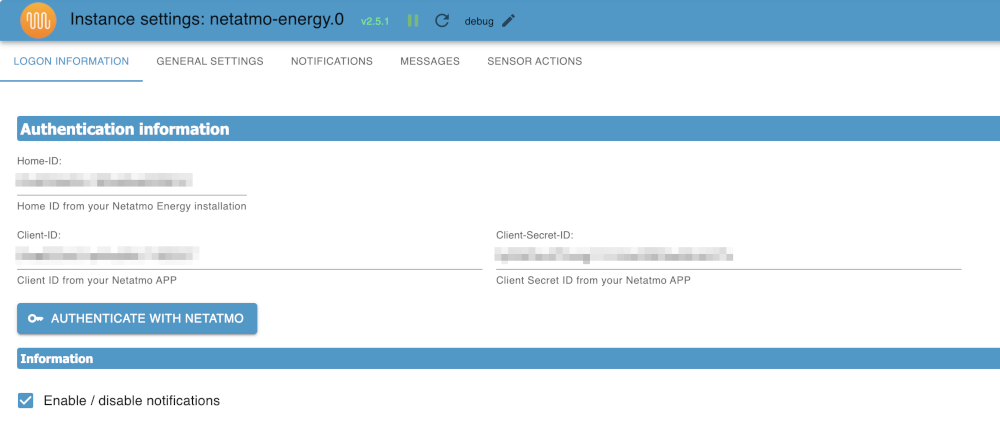
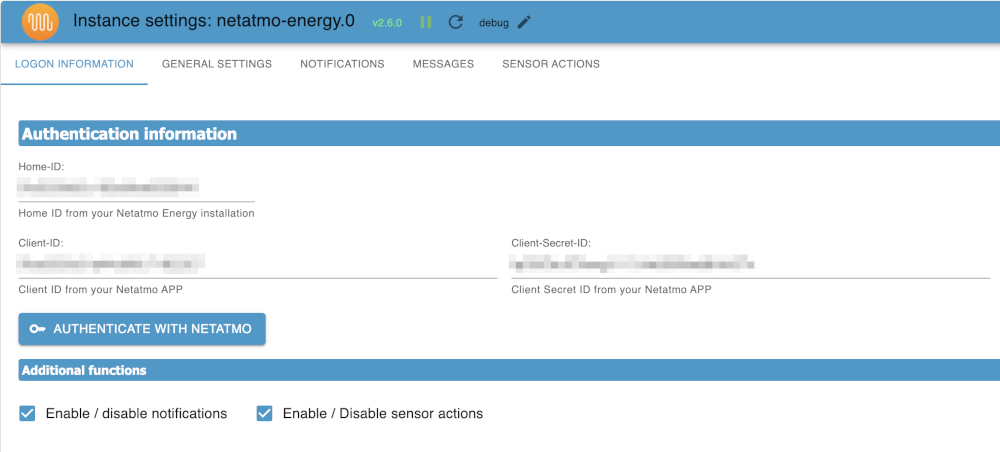
Enable / Disable sensor actions

diff --git a/admin/words.js b/admin/words.js
@@ -260,6 +260,8 @@ const _systemDictionary = {
 	"Bridge": { 																	"en": "Bridge", 																	"de": "Brücke", 																				"ru": "Мост", 																				"pt": "Ponte", 																					"nl": "Bridge", 																		"fr": "Bridge", 																								"it": "Ponte", 																							"es": "Puente", 																					"pl": "Most", 																								"uk": "Міста", 																		"zh-cn": "B. 桥梁" },
 	"More details": { 																"en": "More details", 																"de": "Mehr Details", 																			"ru": "Подробнее", 																			"pt": "Mais detalhes", 																			"nl": "Meer details", 																	"fr": "Plus de détails", 																						"it": "Maggiori dettagli", 																				"es": "Más detalles", 																				"pl": "Szczegóły", 																							"uk": "Детальніше", 																"zh-cn": "详情" },
 	"Set home mode": { 																"en": "Set home mode", 																"de": "Home-Modus einstellen", 																	"ru": "Установите домашний режим", 															"pt": "Definir modo de casa", 																	"nl": "Zet thuis modus", 																"fr": "Mode home", 																								"it": "Impostare la modalità home", 																	"es": "Modo de inicio", 																			"pl": "Tryb domowy", 																						"uk": "Налаштування домашнього режиму", 											"zh-cn": "建 议" },
+	"Enable / Disable sensor actions": { 											"en": "Enable / Disable sensor actions", 											"de": "Ermöglichen / Deaktivieren von Sensoraktionen", 											"ru": "Включить / Отключить действия датчика", 												"pt": "Habilitar / Desativar ações do sensor", 													"nl": "Enable/ Disable sensor acties", 													"fr": "Activer / Désactiver les actions du capteur", 															"it": "Attiva / disattiva le azioni del sensore", 														"es": "Activar / Desactivar las acciones del sensor", 												"pl": "Wykorzystywanie czujników / urządzenie nieodpowiednich czujników", 									"uk": "Увімкнути / вимкнути дії датчика", 											"zh-cn": "易感染感情行动" },
+	"Additional functions": { 														"en": "Additional functions", 														"de": "Zusätzliche Funktionen", 																"ru": "Дополнительные функции", 															"pt": "Funções adicionais", 																	"nl": "Additionele functies", 															"fr": "Fonctions supplémentaires", 																				"it": "Funzioni aggiuntive", 																			"es": "Funciones adicionales", 																		"pl": "Funkcja dodatkowa", 																					"uk": "Додаткові функції", 															"zh-cn": "其他职能" },
 };
 // @ts-ignore
 if (typeof module !== 'undefined' && module.parent) {

diff --git a/main.js b/main.js
@@ -1558,14 +1558,16 @@ class NetatmoEnergy extends utils.Adapter {
 							break;
 						//Window open
 						case glob.state_open_window:
-							await this._sensorChanges(id, oldValue)
-								.then(async startSyncAPI => {
-									if (startSyncAPI) {
-										//Nothing to do
-									}
-									if (this.config.notify_window_open_txt && this.config.notify_window_open == true && this.config.notify_window_open_txt != '' && state.val != oldValue) this.sendMessage(actId.parent + '.name', this.config.notify_window_open_txt);
-								})
-								.catch( );
+							if (this.config.sensorsEnabled && this.config.sensorsEnabled == true) {
+								await this._sensorChanges(id, oldValue)
+									.then(async startSyncAPI => {
+										if (startSyncAPI) {
+											//Nothing to do
+										}
+										if (this.config.notify_window_open_txt && this.config.notify_window_open == true && this.config.notify_window_open_txt != '' && state.val != oldValue) this.sendMessage(actId.parent + '.name', this.config.notify_window_open_txt);
+									})
+									.catch( );
+							}
 							break;
 						//No Connection
 						case glob.state_reachable:
@@ -1592,13 +1594,15 @@ class NetatmoEnergy extends utils.Adapter {
 			}
 		} else {
 			if (state.ack === true) {
-				await this._sensorChanges(id, !state.val)
-					.then(async startSyncAPI => {
-						if (startSyncAPI) {
-							//Nothing to do
-						}
-					})
-					.catch();
+				if (this.config.sensorsEnabled && this.config.sensorsEnabled == true) {
+					await this._sensorChanges(id, !state.val)
+						.then(async startSyncAPI => {
+							if (startSyncAPI) {
+								//Nothing to do
+							}
+						})
+						.catch();
+				}
 			}
 		}
 	}

diff --git a/admin/style.css b/admin/style.css
@@ -285,6 +285,7 @@ i.icon-grey {
 
 .myslider {
 	-webkit-appearance: none;
+	appearance: auto;
     width: 100%;
     height: 25px;    
 	background: #d3d3d3;

diff --git a/docs/de/README.md b/docs/de/README.md
@@ -40,7 +40,7 @@ Konto bei Netatmo Cloud
     - Aktualisierung der API-states nach x Sekunden ... Permanentes Aktualisieren der API Daten. (0 = Keine Aktualisierung)  
   - Wenn gewünscht kann auch Benachrichtigungsdienst eingerichtet werden um bestimmte Statusänderungen zugesandt zu bekommen. Dabei ist es möglich sich 
   Informationsmeldungen, Warnungen bzw. Fehlermeldungen zu erhalten. Hierfür ist es notwendig die Option "Benachrichtigungen aktivieren/deaktivieren" in den "Anmeldeinformationen" zu aktivieren und danach die Einstellungen im Menü "Benachrichtigungen" einzurichten.
-  - Zusätzlich ist es möglich die Tür-/Fenstersensoren in der Sensorik einzutragen und die gewünschte Aktion zu hinterlegen
+  - Zusätzlich ist es möglich die Tür-/Fenstersensoren in der Sensorik einzutragen und die gewünschte Aktion zu hinterlegen. Diese Funktionen können auf der Loginseite generell aktiviert bzw. deaktiviert werden.
   
 Eine detaillierte Beschreibung ist als wiki verfügbar (<https://github.com/Homemade-Disaster/ioBroker.netatmo-energy/wiki>).
 

diff --git a/docs/en/README.md b/docs/en/README.md
@@ -39,7 +39,7 @@ Account at Netatmo Cloud
       - read API states immediately ... send API homestatus request after changing fields in API
       - Refresh states every x seconds ... permanent refresh of the API data. (0 = no permanent refresh)
   - As an option you can activate the notification assistant. Therefore, you must activate the option "Enable / disable notifications" in the "Logon information" menu and do the setup for the notification service in the menu "notifications". You can get information's, warnings and errors.
-  - It is also possible to config the sensors for Doors/Windows in the Sensorik tab. Please also maintain the action, you want to trigger.
+  - It is also possible to config the sensors for Doors/Windows in the Sensorik tab. Please also maintain the action, you want to trigger. These functions can generally be activated or deactivated on the login page.
 
 A detailed description is available on adapter wiki (<https://github.com/Homemade-Disaster/ioBroker.netatmo-energy/wiki>).
 

diff --git a/README.md b/README.md
@@ -37,6 +37,10 @@ Mittels der Netatmo-Energy API werden die aktuellen Einstellungen abgeholt bzw. 
     Placeholder for the next version (at the beginning of the line):
     ### **WORK IN PROGRESS**
 -->
+### 2.6.0 (2023-05-01)
+
+* (ioKlausi) Enable / Disable sensor actions
+
 ### 2.5.8 (2023-04-16)
 
 * (ioKlausi) Bug fix of translations
